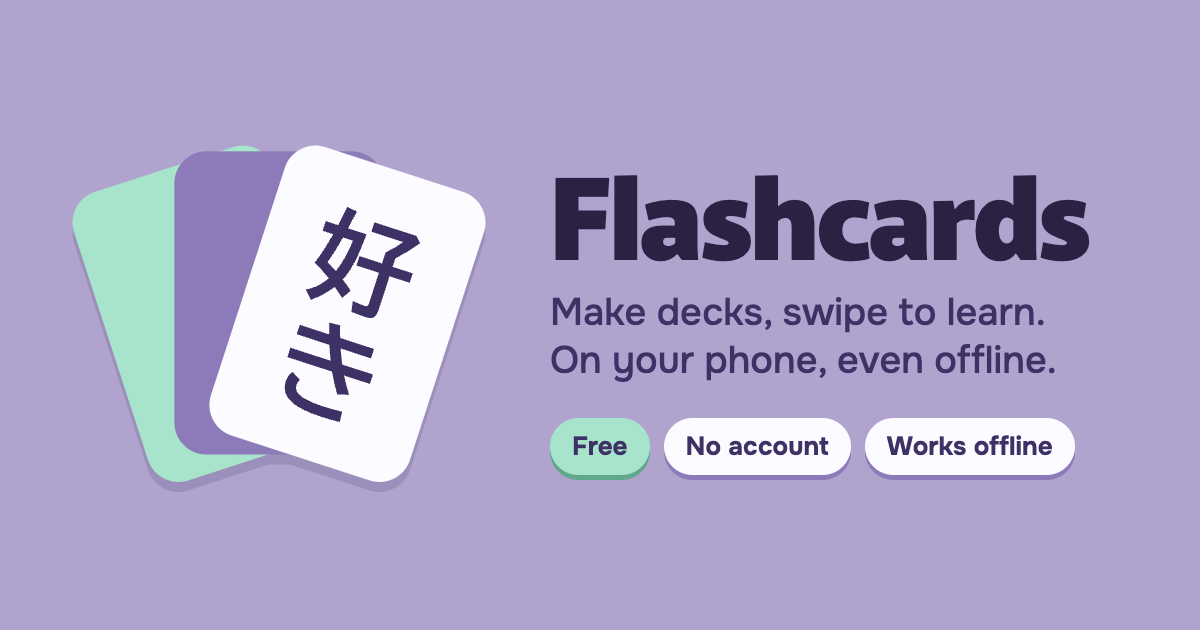
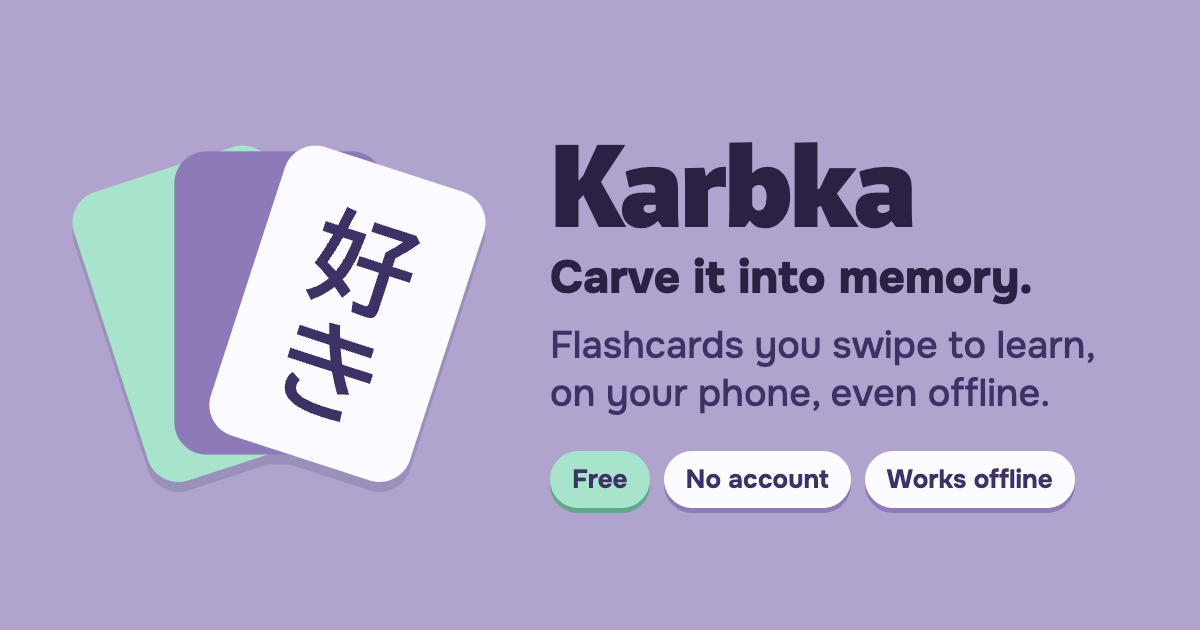
Name the app Karbka

Changed region(s): [[0.4317, 0.2111, 0.925, 0.8143]]

diff --git a/index.html b/index.html
@@ -17,20 +17,20 @@
         document.querySelector('meta[name="theme-color"]').content = dark ? '#1c1529' : '#b0a3ce';
       } catch (e) {}
     </script>
-    <title>Flashcards: offline flashcard app for your phone</title>
-    <meta name="description" content="Make flashcard decks and learn them with quick swipe tests. Works offline and installs to your home screen. No account: your cards stay on your device." />
+    <title>Karbka: carve it into memory. Offline flashcards for your phone</title>
+    <meta name="description" content="Karbka is a flashcard app for your phone: carve it into memory. Make decks and learn them with quick swipe tests. Works offline and installs to your home screen. No account: your cards stay on your device." />
     <link rel="canonical" href="https://flashcards.hzinchenko.com/" />
     <!-- Sharing previews. Absolute URLs: update them if the domain changes. -->
     <meta property="og:type" content="website" />
-    <meta property="og:site_name" content="Flashcards" />
-    <meta property="og:title" content="Flashcards" />
-    <meta property="og:description" content="Make flashcard decks and learn them with quick swipe tests. Works offline, no account needed." />
+    <meta property="og:site_name" content="Karbka" />
+    <meta property="og:title" content="Karbka: carve it into memory" />
+    <meta property="og:description" content="Flashcards you swipe to learn. Works offline, no account needed." />
     <meta property="og:url" content="https://flashcards.hzinchenko.com/" />
     <meta property="og:image" content="https://flashcards.hzinchenko.com/og-image.png" />
     <meta property="og:image:type" content="image/png" />
     <meta property="og:image:width" content="1200" />
     <meta property="og:image:height" content="630" />
-    <meta property="og:image:alt" content="Flashcards app: a fanned stack of cards, the top one reading 好き" />
+    <meta property="og:image:alt" content="Karbka flashcards app: a fanned stack of cards, the top one reading 好き" />
     <meta property="og:locale" content="en_US" />
     <meta property="og:locale:alternate" content="uk_UA" />
     <meta name="twitter:card" content="summary_large_image" />
@@ -38,9 +38,10 @@
       {
         "@context": "https://schema.org",
         "@type": "WebApplication",
-        "name": "Flashcards",
+        "name": "Karbka",
+        "alternateName": "Карбка",
         "url": "https://flashcards.hzinchenko.com/",
-        "description": "Offline flashcards that install to your phone's home screen. No account, no server: your cards stay on your device.",
+        "description": "Karbka: offline flashcards that install to your phone's home screen. No account, no server: your cards stay on your device.",
         "applicationCategory": "EducationalApplication",
         "operatingSystem": "Any (web browser)",
         "inLanguage": ["en", "uk"],
@@ -51,7 +52,7 @@
     <meta name="apple-mobile-web-app-capable" content="yes" />
     <meta name="mobile-web-app-capable" content="yes" />
     <meta name="apple-mobile-web-app-status-bar-style" content="default" />
-    <meta name="apple-mobile-web-app-title" content="Flashcards" />
+    <meta name="apple-mobile-web-app-title" content="Karbka" />
     <link rel="icon" href="/favicon.ico" sizes="48x48" />
     <link rel="icon" href="/favicon.svg" type="image/svg+xml" />
     <link rel="apple-touch-icon" href="/apple-touch-icon-180x180.png" />

diff --git a/src/lib/changelog.ts b/src/lib/changelog.ts
@@ -10,6 +10,17 @@ export type ChangelogEntry = { version: string; en: string[]; uk: string[] };
 
 export const CHANGELOG: ChangelogEntry[] = [
   {
+    version: '0.18.0',
+    en: [
+      'The app has a name now: Karbka. Carve it into memory.',
+      'Your cards, decks and backups are untouched.',
+    ],
+    uk: [
+      'У застосунку тепер є назва: Карбка. Закарбуй у памʼяті.',
+      'Ваші картки, колоди й резервні копії лишаються на місці.',
+    ],
+  },
+  {
     version: '0.17.0',
     en: [
       'Deleted cards, decks and collections can be restored for 30 days: Settings → Recently deleted.',
@@ -37,19 +48,6 @@ export const CHANGELOG: ChangelogEntry[] = [
       'Під час додавання картки застосунок попередить, якщо таке слово вже є в якійсь колоді колекції. Зберегти все одно можна.',
       'Під час додавання картки можна написати нотатки.',
       'Теги скидаються після кожної доданої картки, щоб не потрапити на наступну випадково.',
-    ],
-  },
-  {
-    version: '0.15.0',
-    en: [
-      'If the phone closes the app during a test, you can pick up where you left off: tap Resume.',
-      'When something goes wrong, the app says so. Settings → About can copy details for a bug report.',
-      'You can now email feedback to hello@hzinchenko.com from Settings → About.',
-    ],
-    uk: [
-      'Якщо телефон закрив застосунок посеред тесту, можна продовжити з того ж місця: натисніть «Продовжити».',
-      'Коли щось іде не так, застосунок про це каже. У Налаштування → Про застосунок можна скопіювати деталі для звіту про помилку.',
-      'Тепер можна написати відгук на hello@hzinchenko.com з Налаштування → Про застосунок.',
     ],
   },
 ];

diff --git a/docs/og/og-image.html b/docs/og/og-image.html
@@ -4,6 +4,7 @@
 <style>
   @font-face { font-family: Murecho; font-weight: 100 900; src: url(../../node_modules/@fontsource-variable/murecho/files/murecho-latin-wght-normal.woff2) format('woff2'); }
   @font-face { font-family: Onest; font-weight: 100 900; src: url(../../node_modules/@fontsource-variable/onest/files/onest-latin-wght-normal.woff2) format('woff2'); }
+  @font-face { font-family: Onest; font-weight: 100 900; unicode-range: U+0400-04FF; src: url(../../node_modules/@fontsource-variable/onest/files/onest-cyrillic-wght-normal.woff2) format('woff2'); }
   html, body { margin: 0; }
   body {
     width: 1200px; height: 630px; overflow: hidden; box-sizing: border-box;
@@ -12,7 +13,8 @@
   }
   .stack { flex: none; width: 430px; height: 510px; filter: drop-shadow(0 10px 0 rgb(62 49 102 / 0.18)); }
   h1 { margin: 0; font-family: Murecho, sans-serif; font-size: 112px; font-weight: 900; letter-spacing: -0.03em; line-height: 1; }
-  p { margin: 22px 0 34px; font-size: 38px; font-weight: 500; line-height: 1.25; color: #3e3166; }
+  .slogan { margin: 18px 0 0; font-size: 46px; font-weight: 800; color: #2b2142; line-height: 1.15; }
+  p { margin: 18px 0 34px; font-size: 38px; font-weight: 500; line-height: 1.25; color: #3e3166; }
   ul { display: flex; flex-wrap: wrap; gap: 14px; margin: 0; padding: 0; list-style: none; }
   li { padding: 12px 22px; border-radius: 999px; background: #fcfbff; box-shadow: 0 5px 0 #8c7bb8; font-size: 26px; font-weight: 700; color: #3e3166; }
   li.mint { background: #a8e4cb; box-shadow: 0 5px 0 #5fa88a; }
@@ -31,8 +33,9 @@
 </svg>
 
 <div>
-  <h1>Flashcards</h1>
-  <p>Make decks, swipe to learn.<br />On your phone, even offline.</p>
+  <h1>Karbka</h1>
+  <div class="slogan">Carve it into memory.</div>
+  <p>Flashcards you swipe to learn,<br />on your phone, even offline.</p>
   <ul>
     <li class="mint">Free</li>
     <li>No account</li>

diff --git a/src/routes/Settings.svelte b/src/routes/Settings.svelte
@@ -35,7 +35,7 @@
     { href: `${REPO}/issues`, icon: 'message', label: () => t('settings.feedback') },
   ];
   const EMAIL = 'hello@hzinchenko.com';
-  const mailto = `mailto:${EMAIL}?subject=${encodeURIComponent(`Flashcards ${__APP_VERSION__}`)}`;
+  const mailto = `mailto:${EMAIL}?subject=${encodeURIComponent(`Karbka ${__APP_VERSION__}`)}`;
   const themes: [ThemePref, () => string][] = [
     ['system', () => t('settings.themeSystem')],
     ['light', () => t('settings.themeLight')],
@@ -93,7 +93,7 @@
 
   async function exportLibrary() {
     const backup = createBackup(await loadLibrary());
-    await saveFile(`flashcards-${dateStamp()}.json`, JSON.stringify(backup), 'application/json');
+    await saveFile(`karbka-${dateStamp()}.json`, JSON.stringify(backup), 'application/json');
     markBackedUp();
     showToast(t('settings.exported'));
   }

diff --git a/src/lib/io/json.ts b/src/lib/io/json.ts
@@ -48,7 +48,7 @@ export function parseBackup(text: string, now = Date.now(), opts: ParseOptions =
   } catch {
     throw new BackupError('Not a valid JSON file');
   }
-  if (!isObj(raw) || raw.app !== BACKUP_APP) throw new BackupError('Not a Flashcards backup file');
+  if (!isObj(raw) || raw.app !== BACKUP_APP) throw new BackupError('Not a Karbka backup file');
   const version = num(raw, 'schemaVersion', 0);
   if (version < 1 || version > SCHEMA_VERSION) throw new BackupError(`Unsupported backup version: ${version}`);
   if (!Array.isArray(raw.decks) || !Array.isArray(raw.cards) || !Array.isArray(raw.tags)) {

diff --git a/tests/diagnostics.test.ts b/tests/diagnostics.test.ts
@@ -42,7 +42,7 @@ describe('diagnosticsText', () => {
   const info = { version: '1.2.3', now: 0, userAgent: 'UA', language: 'uk', standalone: true, screen: '390×844 @3x', decks: 2, cards: null, errors: [] };
   it('lists the device and library', () => {
     const text = diagnosticsText(info);
-    expect(text).toContain('Flashcards 1.2.3');
+    expect(text).toContain('Karbka 1.2.3');
     expect(text).toContain('Installed: yes');
     expect(text).toContain('Library: 2 decks, unknown cards');
     expect(text).toContain('No errors recorded.');

diff --git a/vite.config.ts b/vite.config.ts
@@ -21,9 +21,9 @@ export default defineConfig({
       registerType: 'prompt',
       includeAssets: ['favicon.ico', 'favicon.svg', 'apple-touch-icon-180x180.png'],
       manifest: {
-        name: 'Flashcards',
-        short_name: 'Flashcards',
-        description: 'Offline flashcards for learning anything',
+        name: 'Karbka',
+        short_name: 'Karbka',
+        description: 'Karbka: offline flashcards for learning anything',
         lang: 'en',
         display: 'standalone',
         orientation: 'portrait',

diff --git a/src/lib/diagnostics.ts b/src/lib/diagnostics.ts
@@ -74,7 +74,7 @@ export interface DiagnosticsInfo {
 export function diagnosticsText(info: DiagnosticsInfo): string {
   const count = (n: number | null) => (n === null ? 'unknown' : String(n));
   const lines = [
-    `Flashcards ${info.version}`,
+    `Karbka ${info.version}`,
     `Time: ${new Date(info.now).toISOString()}`,
     `User agent: ${info.userAgent}`,
     `Language: ${info.language}`,

diff --git a/src/lib/i18n/tr.ts b/src/lib/i18n/tr.ts
@@ -2,7 +2,7 @@ import type { Messages } from './en';
 
 /** Turkish plural forms: one|other (a counted noun stays singular, so both forms are usually equal) */
 export const tr: Messages = {
-  'app.name': 'Kartlar',
+  'app.name': 'Karbka',
 
   'nav.decks': 'Desteler',
   'nav.test': 'Test',

diff --git a/src/lib/i18n/ja.ts b/src/lib/i18n/ja.ts
@@ -2,7 +2,7 @@ import type { Messages } from './en';
 
 /** Japanese has no plural forms: every string is a single form. */
 export const ja: Messages = {
-  'app.name': '単語カード',
+  'app.name': 'Karbka',
 
   'nav.decks': 'デッキ',
   'nav.test': 'テスト',

diff --git a/src/lib/i18n/zh.ts b/src/lib/i18n/zh.ts
@@ -2,7 +2,7 @@ import type { Messages } from './en';
 
 /** Simplified Chinese has no plural forms: every string is a single form. */
 export const zh: Messages = {
-  'app.name': '单词卡',
+  'app.name': 'Karbka',
 
   'nav.decks': '卡组',
   'nav.test': '测试',

diff --git a/src/lib/i18n/uk.ts b/src/lib/i18n/uk.ts
@@ -2,7 +2,7 @@ import type { Messages } from './en';
 
 /** Ukrainian plural forms: one|few|many|other */
 export const uk: Messages = {
-  'app.name': 'Картки',
+  'app.name': 'Карбка',
 
   'nav.decks': 'Колоди',
   'nav.test': 'Тест',
